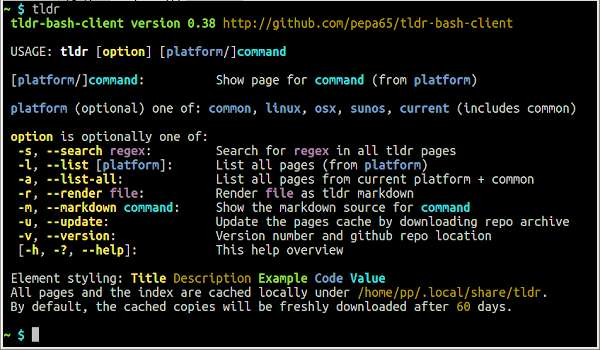
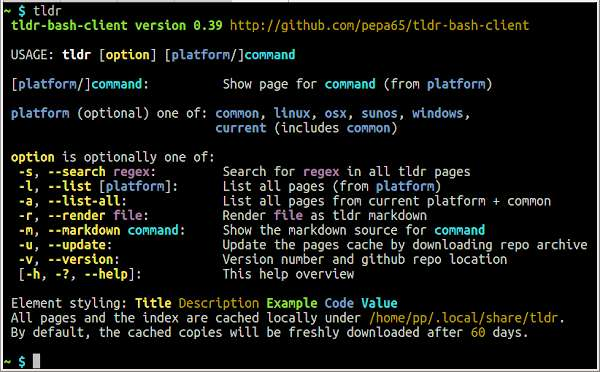
Fixups after adding windows platform

diff --git a/README.md b/README.md
@@ -1,6 +1,6 @@
 # tldr-bash-client
 
-* version 0.38
+* version 0.39
 
 ### Bash client for tldr: community driven man-by-example
 **A fully-functional [bash](https://tiswww.case.edu/php/chet/bash/bashtop.html)
